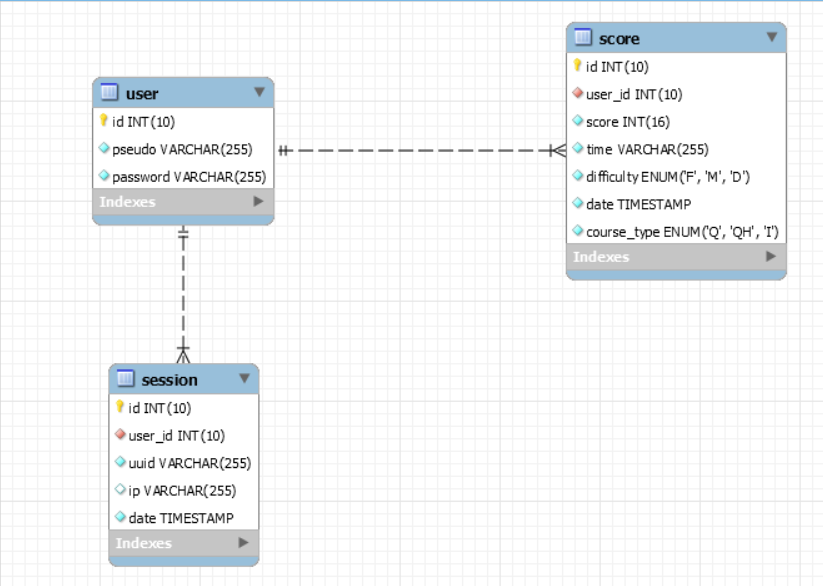
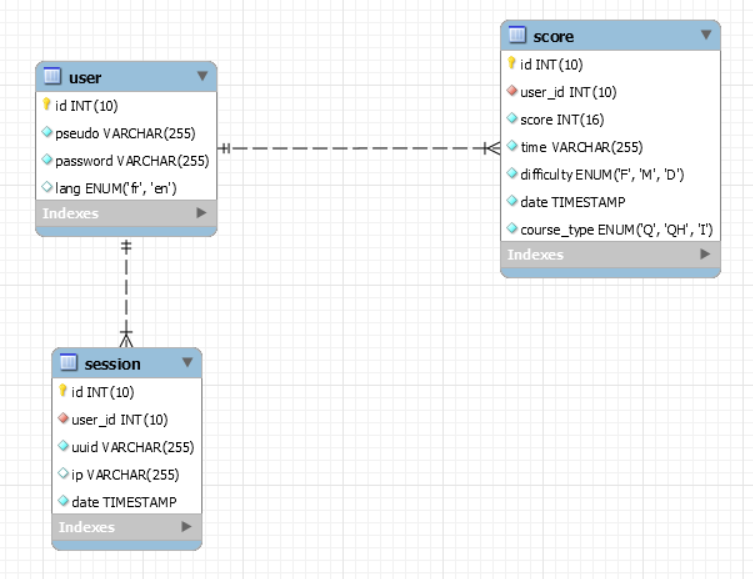
Les préférences de lang sont maintenance stocké en DB

Changed region(s): [[0.0, 0.0, 1.0, 0.5285], [0.0611, 0.5596, 0.336, 0.9948]]

diff --git a/serveur_web/login.php b/serveur_web/login.php
@@ -35,6 +35,10 @@ if(!empty($_POST["pseudo"]) && !empty($_POST["password"])) {
     if($login_success == True) {
         $_SESSION["username"] = $pseudo;
         $_SESSION["user_id"] = get_id($pdo, $pseudo);
+        $langdb = langfromDB($pdo, $pseudo);
+        if($langdb == null) {
+            $_SESSION["lang"] = $langdb;
+        }
 
         // On le redirige vers l'accueil
         header("Location: index.php");

diff --git a/serveur_web/includes/functions.php b/serveur_web/includes/functions.php
@@ -208,3 +208,13 @@ if (!function_exists('readtext')) {
         return $mess;
     }
 }
+
+if(!function_exists('langfromDB')) {
+    function langfromDB($pdo, $pseudo) {
+        $q = $pdo->prepare("SELECT id, lang FROM `user` WHERE pseudo = ?");
+        $q->execute([$pseudo]);
+        $row = $q->fetch(PDO::FETCH_OBJ);
+
+        return $row->lang;
+    }
+}
